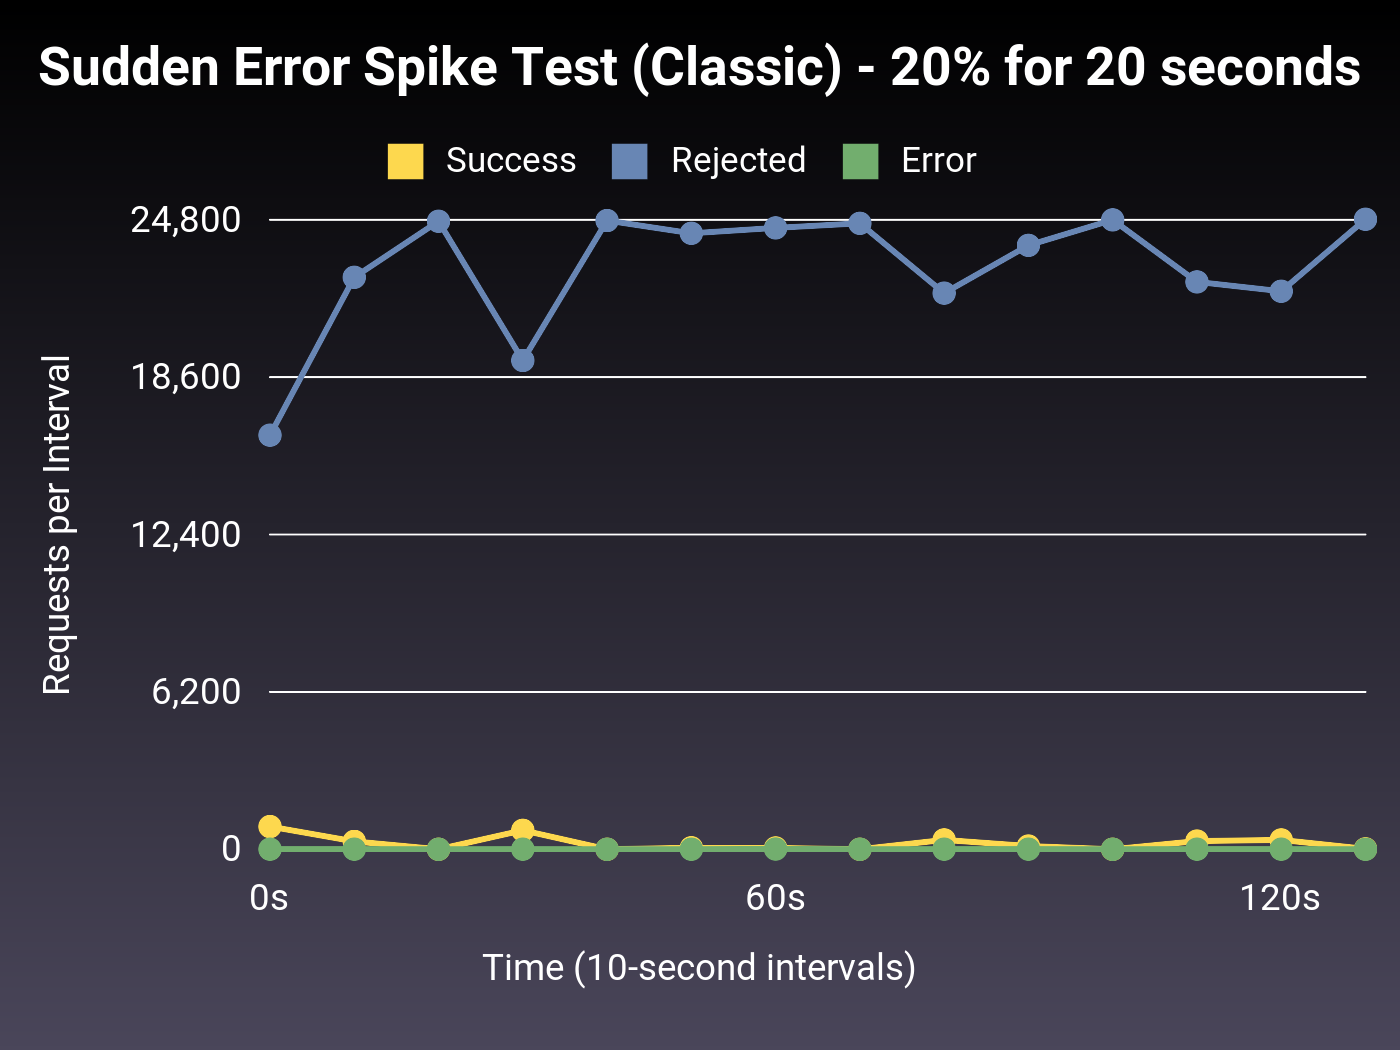
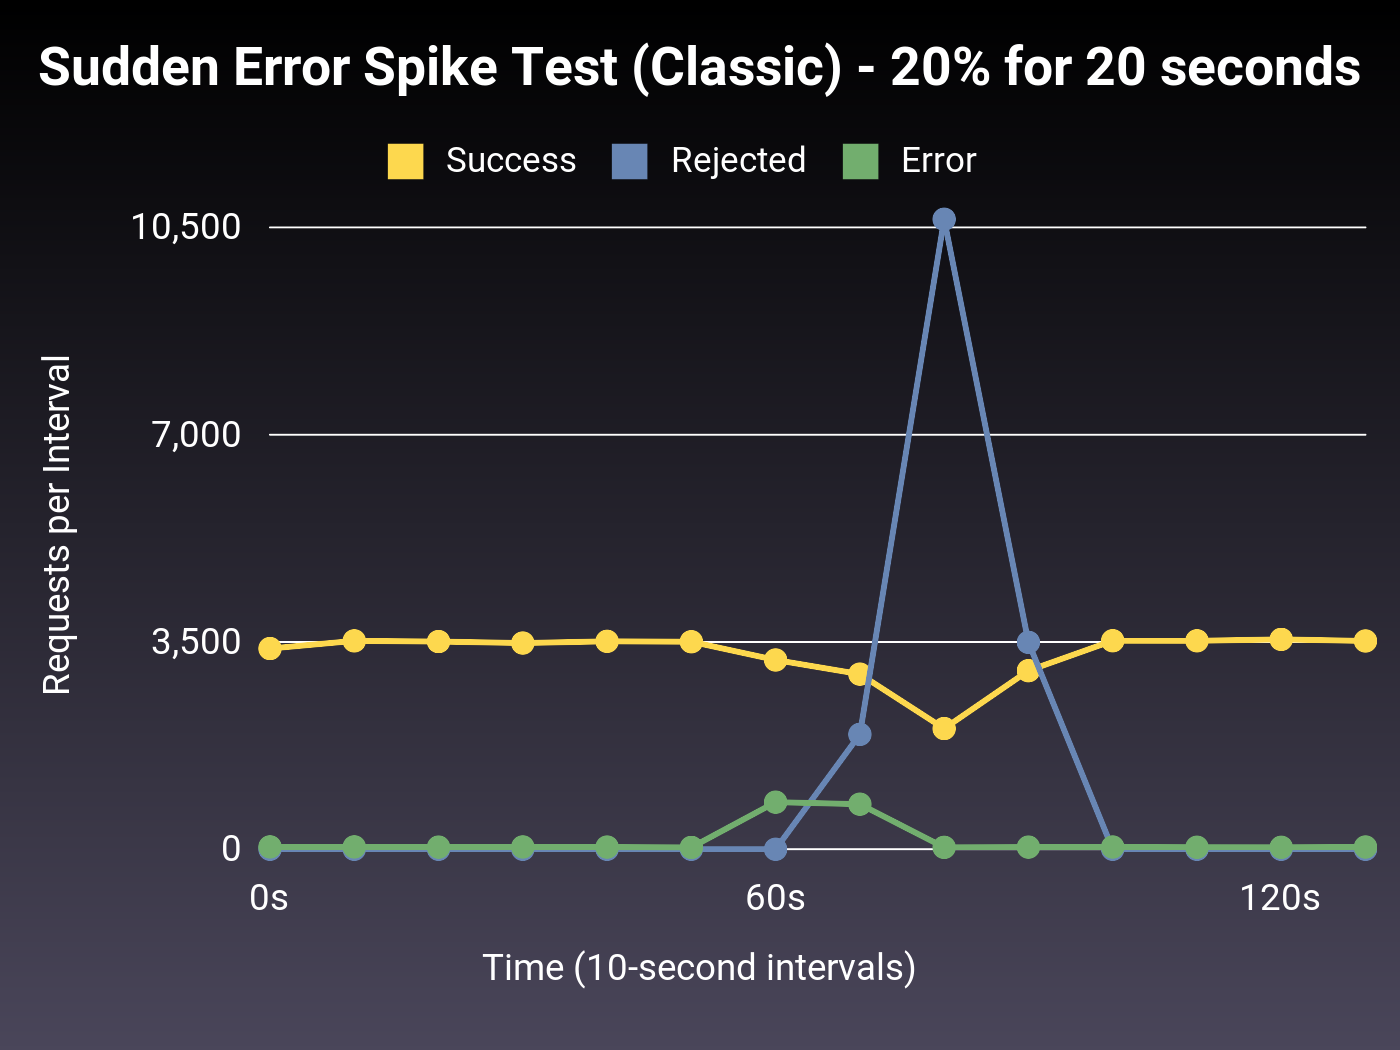
increase error threshold

diff --git a/experiments/test_error_spike_100.rb b/experiments/test_error_spike_100.rb
@@ -15,7 +15,7 @@ runner = Semian::Experiments::CircuitBreakerTestRunner.new(
   phase_duration: 20,
   semian_config: {
     success_threshold: 2,
-    error_threshold: 3,
+    error_threshold: 30,
     error_threshold_timeout: 20,
     error_timeout: 15,
     bulkhead: false,

diff --git a/experiments/test_error_spike_20.rb b/experiments/test_error_spike_20.rb
@@ -15,7 +15,7 @@ runner = Semian::Experiments::CircuitBreakerTestRunner.new(
   phase_duration: 20,
   semian_config: {
     success_threshold: 2,
-    error_threshold: 3,
+    error_threshold: 30,
     error_threshold_timeout: 20,
     error_timeout: 15,
     bulkhead: false,

diff --git a/experiments/test_gradual_increase.rb b/experiments/test_gradual_increase.rb
@@ -15,7 +15,7 @@ runner = Semian::Experiments::CircuitBreakerTestRunner.new(
   phase_duration: 60,
   semian_config: {
     success_threshold: 2,
-    error_threshold: 3,
+    error_threshold: 30,
     error_threshold_timeout: 20,
     error_timeout: 15,
     bulkhead: false,

diff --git a/experiments/test_oscillating_errors.rb b/experiments/test_oscillating_errors.rb
@@ -15,7 +15,7 @@ runner = Semian::Experiments::CircuitBreakerTestRunner.new(
   phase_duration: 10,
   semian_config: {
     success_threshold: 2,
-    error_threshold: 3,
+    error_threshold: 30,
     error_threshold_timeout: 20,
     error_timeout: 15,
     bulkhead: false,

diff --git a/experiments/test_sudden_error_spikes.rb b/experiments/test_sudden_error_spikes.rb
@@ -22,7 +22,7 @@ runner = Semian::Experiments::CircuitBreakerTestRunner.new(
   phase_duration: 20,
   semian_config: {
     success_threshold: 2,
-    error_threshold: 3,
+    error_threshold: 30,
     error_threshold_timeout: 20,
     error_timeout: 15,
     bulkhead: false,

diff --git a/experiments/test_sustained_load.rb b/experiments/test_sustained_load.rb
@@ -15,7 +15,7 @@ runner = Semian::Experiments::CircuitBreakerTestRunner.new(
   phase_duration: 30,
   semian_config: {
     success_threshold: 2,
-    error_threshold: 3,
+    error_threshold: 30,
     error_threshold_timeout: 20,
     error_timeout: 15,
     bulkhead: false,
